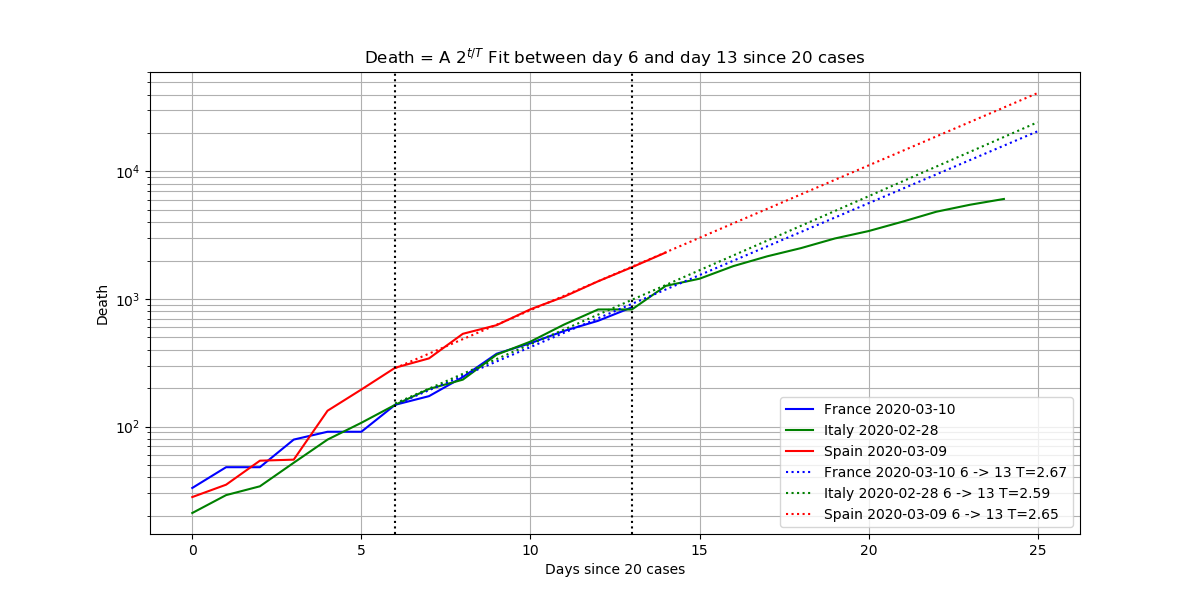
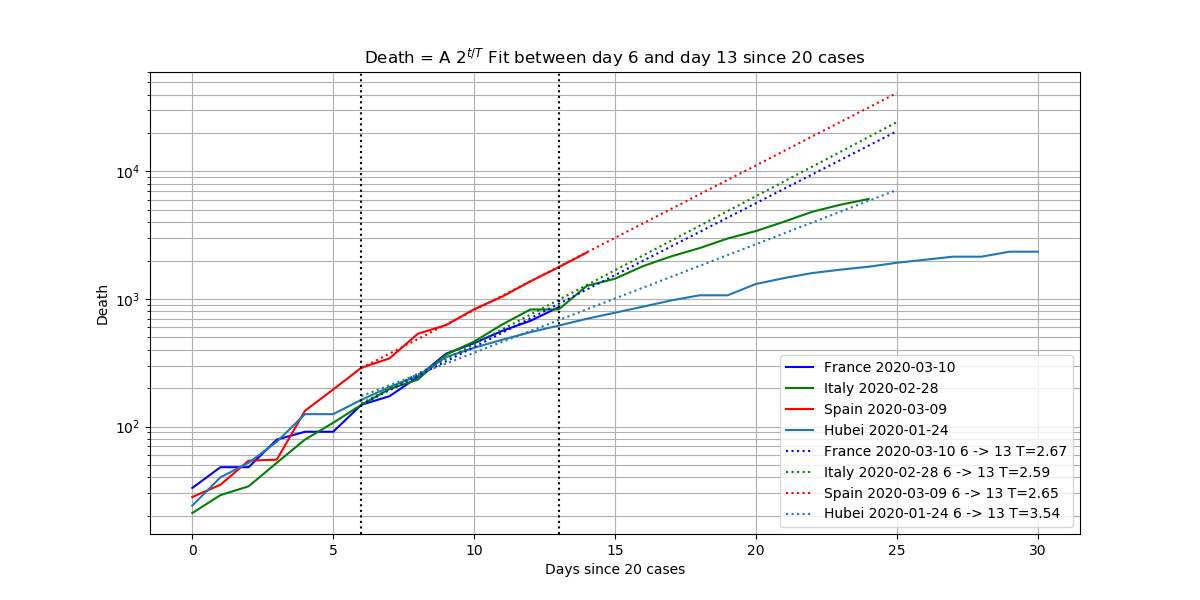
plot update

diff --git a/coronapy_key_plots.py b/coronapy_key_plots.py
@@ -69,6 +69,21 @@ fit_result.plot_model(("2020-03-15", "2020-04-01"), axes=axes)
 axes.set(yscale='log', xlabel="Date", ylabel="Death", title = "Death cases = A $2^{t/T}$")
 save('death_fit', axes.figure)
 
+plt.figure()
+subset = death.subset(names1)
+s, e, c = 6,13, 20
+origin = death.when_case_exceed(c)
+subset = subset.get_day_indexed(origin).subset(start=0, end=30)
+
+fit_result = subset.subset(start=s, end=e).fit('2') # fit the last 10 days
+axes = subset.plot()
+fit_result.plot_model( (s, 25), axes=axes)
+axes.set(yscale='log', xlabel="Days since %s cases"%c, ylabel="Death", title = "Death = A $2^{t/T}$ Fit between day %s and day %s since %s cases"%(s,e,c))
+axes.grid( which='both')
+[axes.axvline(x, color='k', linestyle=":") for x in (s,e)]
+save('death_fit_days', axes.figure)
+
+
 
 plt.figure()
 subset = confirmed.subset(names1)
